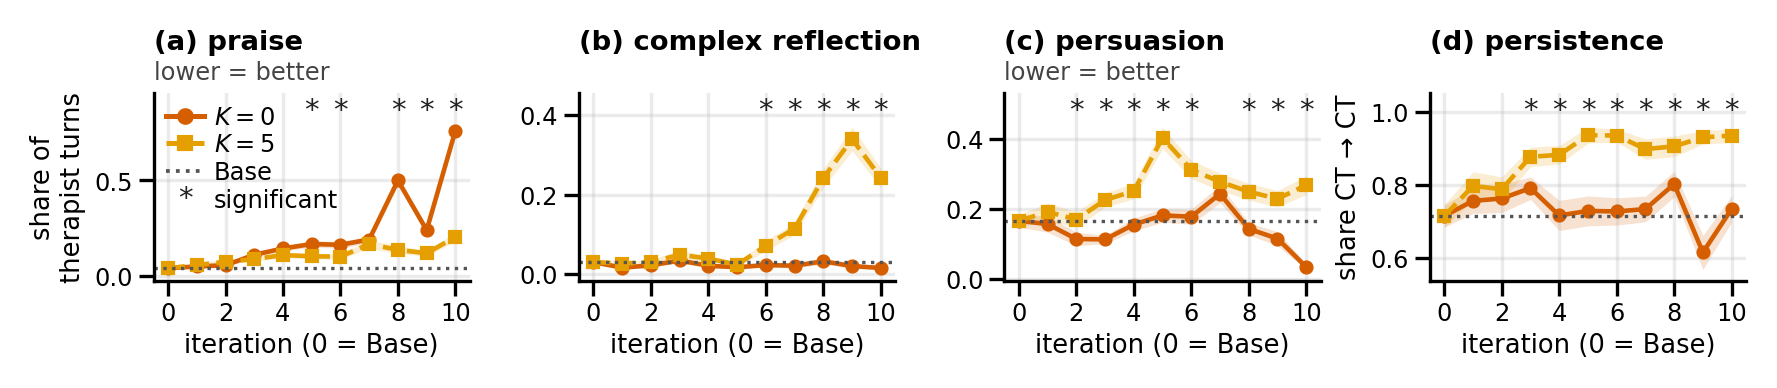
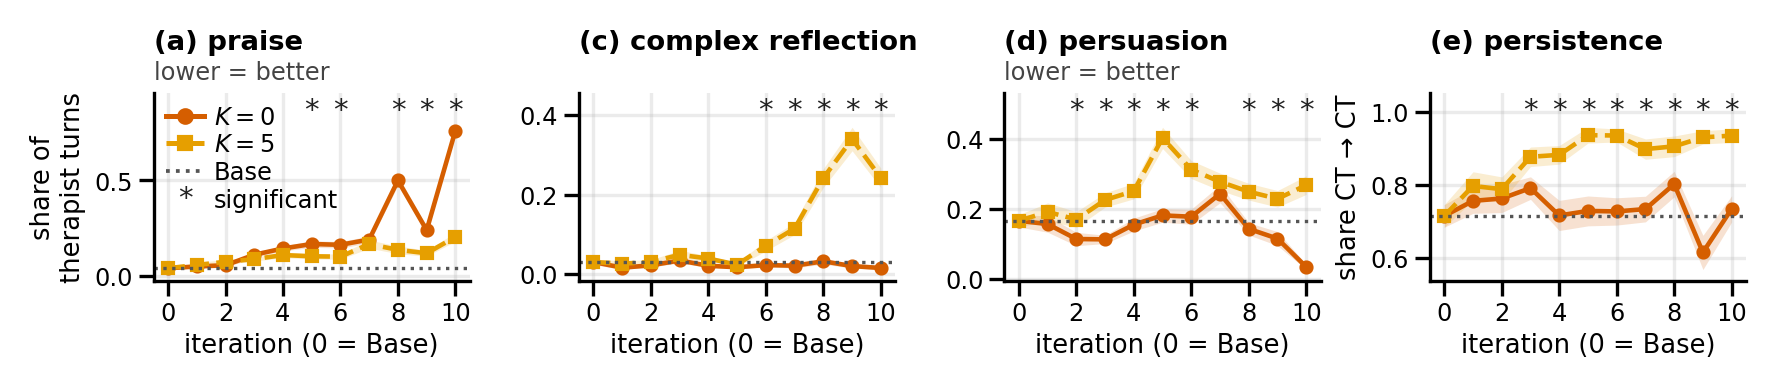
P1 round 5: table and figure scripts (aligned d_z, CSQ-8 scale, panel units and letters)

Changed region(s): [[0.3405, 0.0619, 0.5262, 0.1546], [0.5571, 0.0619, 0.7119, 0.1546], [0.8047, 0.0928, 0.9285, 0.1237]]

diff --git a/papers/2026_grpo_lookahead_mi/render_process_tables.py b/papers/2026_grpo_lookahead_mi/render_process_tables.py
@@ -58,7 +58,8 @@ COLS = [
     ("st_ct", "persist", "st_to_ct_mean", "st_to_ct", "sustain talk", False),
     ("ct_prop", "proc", "ct_prop", "ct_prop", "change-talk share", False),
 ]
-JUDGES = {"gpt-4o-mini": ("07_patient.tex", "tab:process"),
+# Table 3 moved from 07_patient.tex to A_tables.tex in the length pass (step 16).
+JUDGES = {"gpt-4o-mini": ("A_tables.tex", "tab:process"),
           "claude-haiku-4-5": ("A2_heldout.tex", "tab:process-heldout")}
 ARMS = {"GRPO_LA0": "K0", "GRPO_LA5": "K5"}
 
@@ -237,7 +238,7 @@ def codes() -> list[str]:
 # table's rows per judge and anchor); levels: ``levels_long`` / the process level sheets;
 # iterations: ``significant_iterations`` (instruments) or the paired sheets (process).
 INSTR = [("Q1Q2", r"Q1+Q2 (reward)"), ("Q1", r"\quad Q1"), ("Q2", r"\quad Q2"), ("WAI-SR", "WAI-SR"),
-         ("CSQ-8", "CSQ-8"), ("MI-SAT", "MI-SAT"), ("MITI", "MITI"), ("PCT", "PCT (share)"),
+         ("CSQ-8", "CSQ-8 (1--4)"), ("MI-SAT", "MI-SAT"), ("MITI", "MITI"), ("PCT", "PCT (share)"),
          ("MICI", r"MICI (per turn, $\downarrow$)")]
 PRIMARY, HELDOUT = "gpt-4o-mini", "claude-haiku-4-5"
 #: cross-sheet tolerance: most sheets are saved at four decimals (levels_long and anchor_contrasts at six)
@@ -257,9 +258,12 @@ def anchors() -> tuple[pd.DataFrame, int]:
 
 
 def dz_anchor(r) -> str:
-    """K=5 − K=0 dz with Holm stars (anchor_contrasts is already in the paper's sign)."""
+    """K=5 − K=0 dz with Holm stars (anchor_contrasts is already in the paper's sign). The missing
+    stars are padded with \\phantom (review round 5, P5) so every cell is three stars wide and the
+    numbers line up in the column instead of shifting right as the stars thin out."""
     s = "".join("*" for t in (0.05, 0.01, 0.001) if r.p_holm < t)
-    return f"${r.dz_K5_minus_K0:+.2f}" + (f"^{{{s}}}" if s else "") + "$"
+    pad = "*" * (3 - len(s))
+    return f"${r.dz_K5_minus_K0:+.2f}^{{{s}" + (f"\\phantom{{{pad}}}" if pad else "") + "}$"
 
 
 def runs(its: list[int]) -> str:

diff --git a/papers/2026_grpo_lookahead_mi/render_paper_figures.py b/papers/2026_grpo_lookahead_mi/render_paper_figures.py
@@ -373,7 +373,10 @@ def _process_panels(judge: str, name: str, marker: bool = False) -> Path:
     # One title row for every panel, raised by a note line so the bold titles align whether or not
     # a panel carries "lower = better" (title + note on one line is wider than the panel).
     note_pt = 2.0
-    for ax, (lv_sheet, col, se, test_sheet, metric, title), letter in zip(axes, specs, "abcde"):
+    # Without the marker panel (the held-out twin) the letters skip (b), so each measure keeps the
+    # letter it has in Figure 3 and the twin's caption can say "(a, c, d) ... (e)" (round 5, P6).
+    for ax, (lv_sheet, col, se, test_sheet, metric, title), letter in zip(
+            axes, specs, "abcde" if marker else "acde"):
         title = f"({letter}) {title}"
         if marker and title.endswith(") praise"):
             title += ", coder"          # beside (b), say which praise measure (a) is
@@ -971,8 +974,8 @@ class _StarHandler:
 
 
 GRID_METRICS = [("Q1Q2", "Q1+Q2 (reward)"), ("Q1", "Q1"), ("Q2", "Q2"), ("WAI-SR", "WAI-SR"),
-                ("CSQ-8", "CSQ-8"), ("MI-SAT", "MI-SAT"), ("MITI", "MITI"), ("PCT", "PCT"),
-                ("MICI", "MICI (lower = better)")]
+                ("CSQ-8", "CSQ-8"), ("MI-SAT", "MI-SAT"), ("MITI", "MITI"), ("PCT", "PCT (share)"),
+                ("MICI", "MICI (per turn, lower = better)")]   # units since round 5, P6
 
 
 def _levels_grid(judge: str) -> Path:
